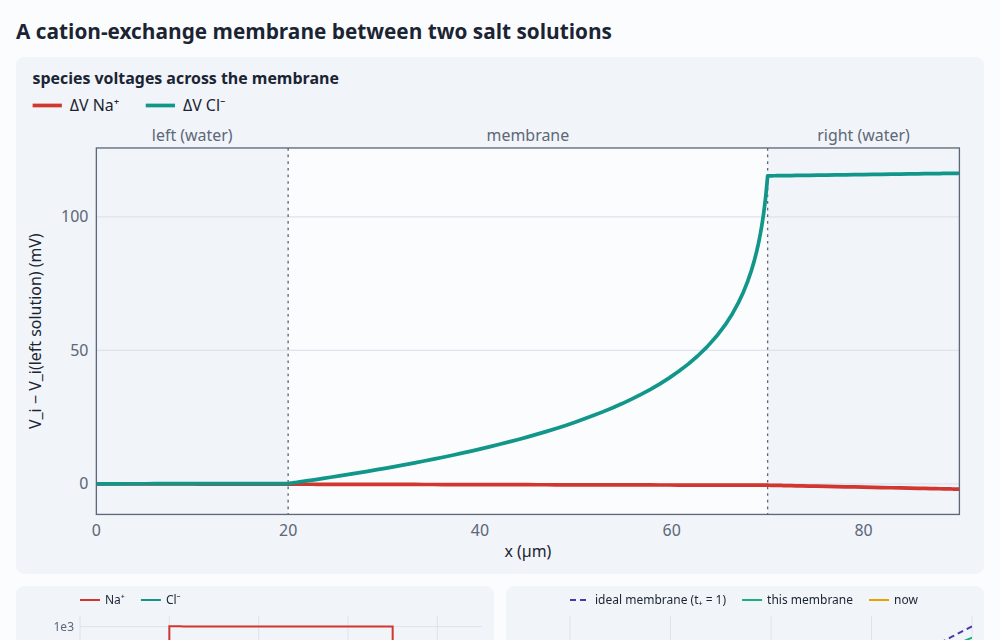
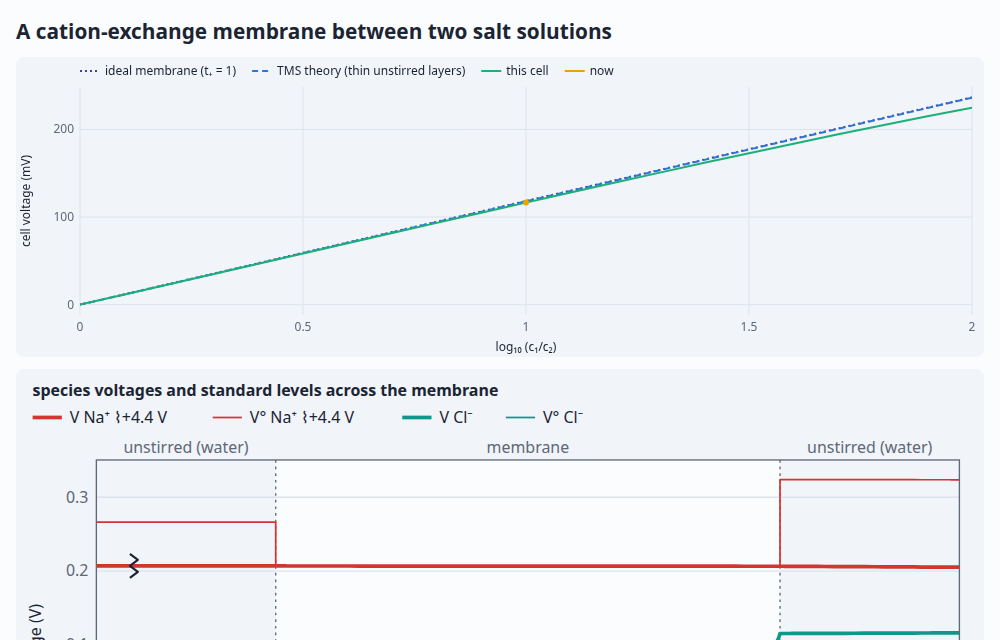
Membrane demo: unstirred layers, TMS theory, an absolute ionic diagram with the Donnan steps, log concentrations

diff --git a/demos/membrane.html b/demos/membrane.html
@@ -10,30 +10,37 @@
 <main>
   <h1>A cation-exchange membrane between two salt solutions</h1>
   <p>A membrane with fixed negative charge separates 0.1 M NaCl from a more dilute solution, at open circuit,
-    with a Ag/AgCl electrode in each solution. The fixed charge keeps chloride out (Donnan exclusion), so the
-    salt that leaks through is carried almost entirely by Na⁺. The diagram shows why the cell has a voltage:
-    each ion's species voltage V<sub>i</sub> = μ̄<sub>i</sub>/(z<sub>i</sub>F). Na⁺ stays nearly level across
-    the membrane, in equilibrium between the solutions, so the whole salt difference lands on Cl⁻, which the
-    electrodes sense: E = 2t₊V<sub>T</sub> ln(c₁/c₂), with t₊ → 1 for an ideal membrane. (The often-quoted
-    59 mV per decade "membrane potential" is this minus the electrodes' own Nernst terms, a conventional split.)
-    With less fixed charge, chloride gets in and t₊ falls to its free-solution value, D₊/(D₊ + D₋) = 0.40.</p>
+    with a Ag/AgCl electrode in each stirred solution and an unstirred layer of water on each side of the
+    membrane. The fixed charge keeps chloride out (Donnan exclusion), so the salt that leaks through is carried
+    almost entirely by Na⁺. Na⁺ then stays nearly level across the membrane, in equilibrium between the
+    solutions, and the whole salt difference lands on Cl⁻, which the electrodes sense:
+    E = 2t₊V<sub>T</sub> ln(c₁/c₂), with t₊ → 1 for an ideal membrane. (The often-quoted 59 mV per decade
+    "membrane potential" is this minus the electrodes' own Nernst terms, a conventional split.) With less
+    fixed charge, chloride gets in and t₊ falls toward its free-solution value, D₊/(D₊ + D₋) = 0.40.</p>
+  <p>The dashed curve is the Teorell–Meyer–Sievers theory: a Donnan equilibrium at each face and diffusion
+    between. It's the limit of thin unstirred layers. Thicker ones polarise, since the salt leaking through
+    piles up on the dilute side and is drawn down on the other, so the membrane sees less of the difference.
+    The level diagram is the ESBD view: each ion's voltage V<sub>i</sub> (thick) is continuous through each
+    face, while its standard level V°<sub>i</sub> (thin) steps there, following φ. Those steps are the
+    Donnan potentials, bookkeeping that cancels from anything measured. Na⁺ is drawn 4.4 V higher (⌇) to
+    share the plot.</p>
   <div class="controls">
     <label>dilute side <input id="c2" type="range" min="-3" max="-1" step="0.1" value="-2"><output id="c2Out"></output></label>
     <label>fixed charge <input id="X" type="range" min="-2" max="0.5" step="0.1" value="0"><output id="XOut"></output></label>
+    <label>unstirred layers <input id="Lw" type="range" min="0" max="2" step="0.25" value="1.25"><output id="LwOut"></output></label>
     <span class="readout" id="Em"></span>
   </div>
   <div class="grid">
+    <canvas class="wide" id="sweep"></canvas>
     <div class="levels wide" id="levels"></div>
-    <canvas id="conc"></canvas>
-    <canvas id="sweep"></canvas>
+    <div class="levels wide" id="conc"></div>
   </div>
 </main>
 <script type="module">
 import { Device, FARADAY, GAS_CONSTANT } from '../src/index.js';
-import { build, layer, bath, aqueous, live, traces } from '../src/kit.js';
-import { levelChart } from '../src/plot.js';
+import { build, layer, bath, aqueous, live, IONS } from '../src/kit.js';
 import { chart, colors } from './plot.js';
-import { showCode, fromQuery, speciesColor } from './common.js';
+import { levels, profiles, showCode, fromQuery } from './common.js';
 
 // Solution and membrane, both strictly neutral (macroscopic). The membrane is the same water,
 // with its ions ten times slower and a fixed charge.
@@ -43,82 +50,83 @@ for (const sp of Object.values(membrane.materials.membrane.species)) sp.D /= 10;
 
 const c1 = 100; // mol/m³: 0.1 M on the left
 const salt = (c) => ({ 'Na+': c, 'Cl-': c });
-const cell = (c2, X) =>
+const cell = (c2, X, Lw) =>
   build({
     library: [water, membrane],
     stack: [
-      bath(salt(c1), 'Cl-'), // the reference: a Ag/AgCl electrode in the left solution
-      layer('water', 20e-6, { name: 'left' }),
+      bath(salt(c1), 'Cl-'), // the reference: a Ag/AgCl electrode in the stirred left solution
+      layer('water', Lw, { name: 'unstirred' }),
       layer('membrane', 50e-6, { fixedCharge: -X * FARADAY }), // X mol/m³ of fixed anions
-      layer('water', 20e-6, { name: 'right' }),
+      layer('water', Lw, { name: 'unstirred' }),
       bath(salt(c2), 'Cl-', { I: 0 }), // the same kind of electrode on the right, drawing no current
     ],
     grid: { hmin: 20e-9, hmax: 1e-6 },
   });
 
-const c2s = document.getElementById('c2'), Xs = document.getElementById('X');
-fromQuery(c2s);
-fromQuery(Xs);
+const c2s = document.getElementById('c2'), Xs = document.getElementById('X'), Ls = document.getElementById('Lw');
+for (const el of [c2s, Xs, Ls]) fromQuery(el);
 const c2 = () => 1000 * 10 ** +c2s.value; // mol/m³
 const X = () => 1000 * 10 ** +Xs.value;
+const Lw = () => 1e-6 * 10 ** +Ls.value; // m
 
 // What's measured: the voltage between the two Ag/AgCl electrodes, V_right − V_left (each the
-// voltage of Cl⁻ at its bath). It's 2t₊V_T ln(c₁/c₂), defining the apparent transport number t₊.
-const VT = (GAS_CONSTANT * 298.15) / FARADAY;
-const potential = (sol) => sol.terminalVoltage;
+// voltage of Cl⁻ at its bath, the cell's terminal voltage). It's 2t₊V_T ln(c₁/c₂), defining the
+// apparent transport number t₊.
+const VT = (GAS_CONSTANT * 298.15) / FARADAY, Dp = IONS['Na+'].D, Dm = IONS['Cl-'].D;
+
+// Teorell–Meyer–Sievers: Donnan equilibrium at each face, where Cl⁻ inside is s = (√(X² + 4c²) − X)/2,
+// and a zero-current diffusion potential between. V_Cl⁻ is continuous through the faces, so the
+// cell voltage is its change across the membrane's interior.
+const tms = (c2, X) => {
+  const s = (c) => (Math.sqrt(X * X + 4 * c * c) - X) / 2, s1 = s(c1), s2 = s(c2);
+  const diffusion = ((Dm - Dp) / (Dp + Dm)) * Math.log(((Dp + Dm) * s2 + Dp * X) / ((Dp + Dm) * s1 + Dp * X));
+  return VT * (diffusion - Math.log(s2 / s1));
+};
 
 let sweep;
 function curve() {
-  const dev = new Device(cell(c1 / 10, X()));
-  sweep = { r: [], E: [] };
+  const dev = new Device(cell(c1 / 10, X(), Lw()));
+  sweep = { r: [], E: [], tms: [] };
   for (let e = -3; e <= -0.99; e += 0.1) {
     dev.set({ contacts: { right: bath(salt(1000 * 10 ** e), 'Cl-', { I: 0 }) } });
     sweep.r.push(Math.log10(c1 / (1000 * 10 ** e)));
-    sweep.E.push(1000 * potential(dev.solve()));
+    sweep.E.push(1000 * dev.solve().terminalVoltage);
+    sweep.tms.push(1000 * tms(1000 * 10 ** e, X()));
   }
 }
 
-const dev = live(cell(c2(), X()), { onsolution: draw });
-const update = () => dev.set(cell(c2(), X()));
-c2s.addEventListener('input', update);
-Xs.addEventListener('input', update);
-Xs.addEventListener('change', () => {
-  curve();
-  update();
-});
+const dev = live(cell(c2(), X(), Lw()), { onsolution: draw });
+const update = () => dev.set(cell(c2(), X(), Lw()));
+for (const el of [c2s, Xs, Ls]) el.addEventListener('input', update);
+for (const el of [Xs, Ls])
+  el.addEventListener('change', () => {
+    curve();
+    update();
+  });
 curve();
 
 function draw(sol) {
   document.getElementById('c2Out').textContent = `${(c2() / 1000).toPrecision(2)} M`;
   document.getElementById('XOut').textContent = `${(X() / 1000).toPrecision(2)} M`;
-  const Em = potential(sol), ideal = 2 * VT * Math.log(c1 / c2());
+  document.getElementById('LwOut').textContent = `${+(Lw() * 1e6).toPrecision(2)} µm`;
+  const Em = sol.terminalVoltage, ideal = 2 * VT * Math.log(c1 / c2());
   document.getElementById('Em').textContent =
-    `cell voltage ${(1000 * Em).toFixed(1)} mV · ideal membrane ${(1000 * ideal).toFixed(1)} mV · apparent t₊ = ${(Em / ideal).toFixed(3)}`;
-  // The two ions' levels sit volts apart (their μ° differ), and only changes matter here, so each
-  // is drawn relative to its value in the left solution: traces are plain data, edited to suit.
-  const tr = traces(sol, { species: ['Na+', 'Cl-'], standard: false, labels: { 'V:Na+': 'ΔV Na⁺', 'V:Cl-': 'ΔV Cl⁻' } });
-  for (const line of tr.series) line.y = line.y.map((v) => 1000 * (v - line.y[0]));
-  const all = tr.series.flatMap((line) => [...line.y]);
-  const lo = Math.min(...all), hi = Math.max(...all), pad = 0.08 * (hi - lo || 1);
-  document.getElementById('levels').innerHTML = levelChart(tr, {
-    width: 720, height: 380, range: [lo - pad, hi + pad],
-    ylabel: 'V_i − V_i(left solution) (mV)', title: 'species voltages across the membrane',
-  });
-  chart(document.getElementById('conc'), {
-    xscale: 1e6, xlabel: 'x (µm)', ylabel: 'concentration (mol/m³)', logy: true,
-    series: [
-      { x: sol.x, y: sol.c['Na+'], color: speciesColor(sol, 'Na+'), label: 'Na⁺' },
-      { x: sol.x, y: sol.c['Cl-'], color: speciesColor(sol, 'Cl-'), label: 'Cl⁻' },
-    ],
-  });
+    `cell voltage ${(1000 * Em).toFixed(1)} mV · TMS ${(1000 * tms(c2(), X())).toFixed(1)} mV · ideal membrane ${(1000 * ideal).toFixed(1)} mV · apparent t₊ = ${(Em / ideal).toFixed(3)}`;
   chart(document.getElementById('sweep'), {
     xlabel: 'log₁₀ (c₁/c₂)', ylabel: 'cell voltage (mV)',
     series: [
-      { x: sweep.r, y: sweep.r.map((r) => 2000 * VT * Math.LN10 * r), color: colors[6], dash: [6, 4], label: 'ideal membrane (t₊ = 1)' },
-      { x: sweep.r, y: sweep.E, color: colors[2], label: 'this membrane' },
+      { x: sweep.r, y: sweep.r.map((r) => 2000 * VT * Math.LN10 * r), color: colors[6], dash: [2, 3], label: 'ideal membrane (t₊ = 1)' },
+      { x: sweep.r, y: sweep.tms, color: colors[0], dash: [6, 4], label: 'TMS theory (thin unstirred layers)' },
+      { x: sweep.r, y: sweep.E, color: colors[2], label: 'this cell' },
       { x: [Math.log10(c1 / c2())], y: [1000 * Em], color: colors[3], marker: true, width: 0, label: 'now' },
     ],
   });
+  levels(document.getElementById('levels'), sol, {
+    title: 'species voltages and standard levels across the membrane',
+    shifts: { 'Na+': 4.4 },
+    ylabel: 'voltage (V)',
+  });
+  profiles(document.getElementById('conc'), sol, { species: ['Na+', 'Cl-'], title: 'concentrations', ylabel: 'concentration (M)', scale: 1e-3, log: true });
 }
 showCode();
 </script>

diff --git a/demos/index.html b/demos/index.html
@@ -29,7 +29,7 @@
 
   <h2>Interfaces and materials</h2>
   <div class="cards">
-    <a class="card" href="membrane.html"><img src="screenshots/membrane.png" alt="ion-exchange membrane"><div><b>Ion-exchange membrane</b><span>Donnan exclusion and permselectivity: why the cell has a voltage, ion by ion.</span></div></a>
+    <a class="card" href="membrane.html"><img src="screenshots/membrane.png" alt="ion-exchange membrane"><div><b>Ion-exchange membrane</b><span>Donnan exclusion and permselectivity, ion by ion, against Teorell–Meyer–Sievers theory; unstirred layers.</span></div></a>
     <a class="card" href="double-layer.html"><img src="screenshots/double-layer.png" alt="double layer"><div><b>Double layer</b><span>Gouy–Chapman against crowded (lattice-gas) ions at a blocking electrode.</span></div></a>
     <a class="card" href="insertion.html"><img src="screenshots/insertion.png" alt="intercalation host"><div><b>Intercalation host</b><span>Lithiation at constant current against a regular-solution OCV.</span></div></a>
   </div>
